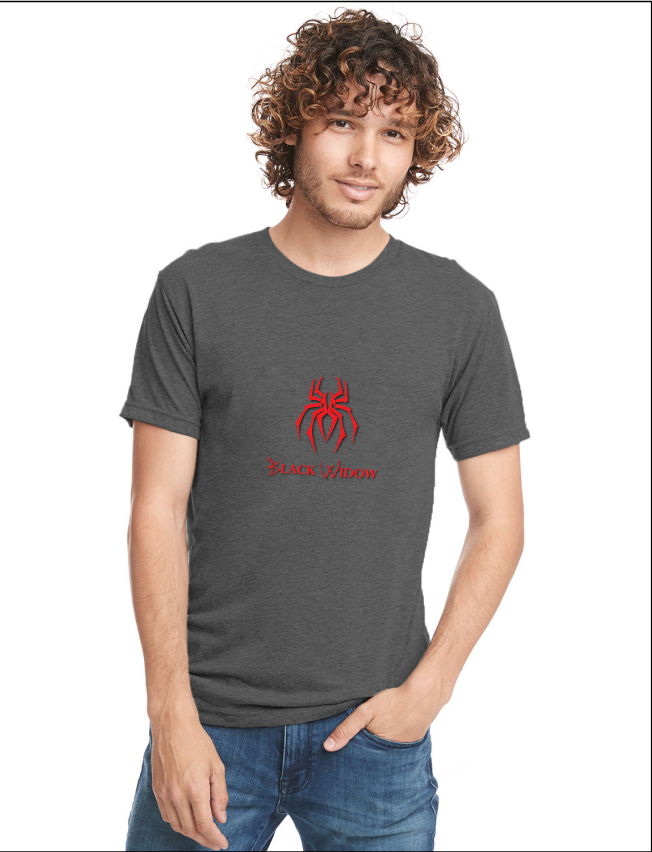
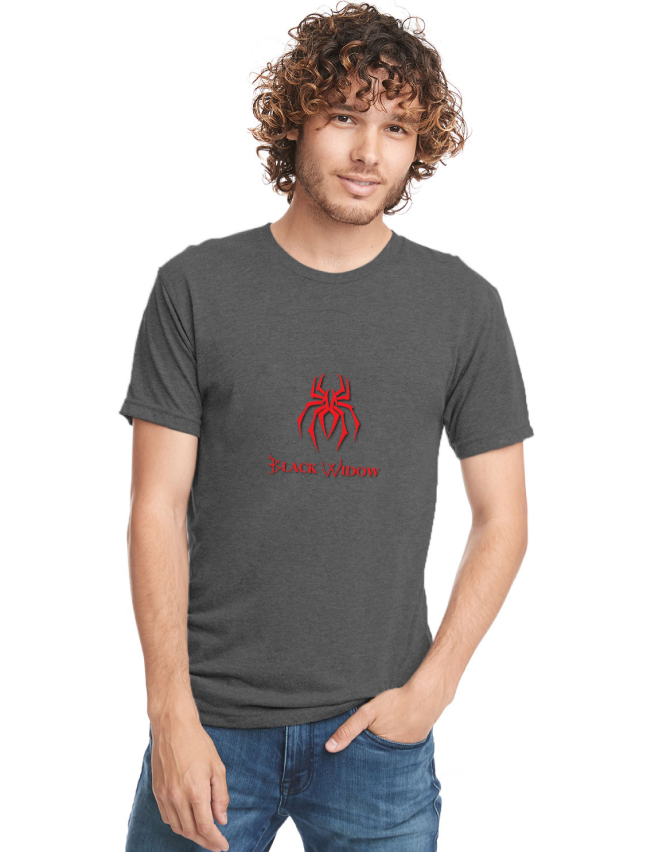
1

diff --git a/shop/index.html b/shop/index.html
@@ -69,13 +69,13 @@
 
                 <div class="scroll">
 
-                    <div class="mage">
+                    <div class="image">
 
-                        <img src="clothes/Screenshot 2024-11-20 080749.png" alt="" width="400" height="400">
+                        <img src="clothes/Screenshot 2024-11-20 080749.png" alt="" width="600" height="600">
 
                     </div>
 
-                    <div class="mage">
+                    <div class="image">
 
                         <img src="clothes/black widow.png" alt="" width="400" height="400">
 
@@ -120,8 +120,8 @@
 
                     <div>
 
-                        <p>Men</p>
-                        <p>More</p>
+                        <h2>Men</h2>
+                        <h2>More</h2>
 
                     </div>
 
@@ -156,10 +156,14 @@
 
                 <ul>
 
-                    <li>YouTube Icon</li>
-                    <li>Instagram Icon</li>
-                    <li>Facebook Icon</li>
-                    <li>X Icon</li>
+                    <div class="icons">
+
+                    <li><img src="logo/youtube_logo-removebg-preview.png" width="20" height="20"></li>
+                    <li><img src="logo/ig logo.png" width="20" height="20"></li>
+                    <li><img src="logo/facebook.png" width="20" height="20"></li>
+                    <li><img src="logo/X.jpeg" width="20" height="20"></li>
+
+                    </div>
 
                 </ul>
 

diff --git a/shop/style.css b/shop/style.css
@@ -72,8 +72,8 @@ section {
 }
 
 .image img {
-    width: 300px;
-    height: 200px;
+    width: 400px;
+    height: 500px;
     margin: 0 1em;
 }
 
@@ -81,6 +81,10 @@ section {
     border-left: black solid 2px;
     padding-left: 2em;
     padding-right: 10em;
+    display: flex;
+    flex-direction: column;
+    justify-content: center;
+
 }
 
 /* Footer */
@@ -195,4 +199,12 @@ main {
     
         position: relative;
     }
+
+
+.shop-logo  {
+    display: flex;
+    flex-direction: row;
+    justify-content: center;
+}
+
 
